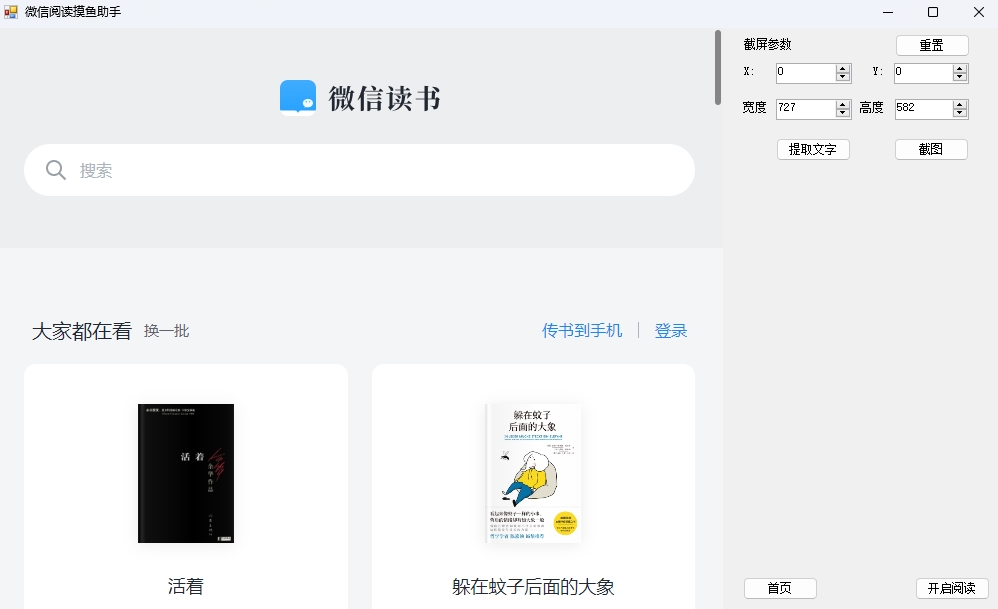
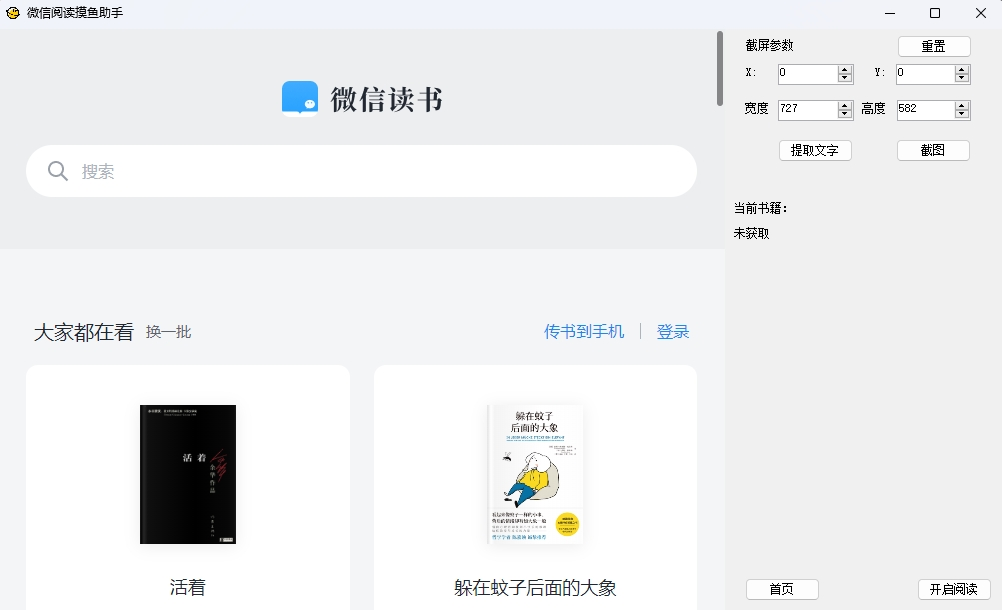
update

diff --git a/MainForm.Designer.cs b/MainForm.Designer.cs
@@ -54,6 +54,7 @@ namespace MiniWeread
             this.checkBox1 = new System.Windows.Forms.CheckBox();
             this.label6 = new System.Windows.Forms.Label();
             this.label7 = new System.Windows.Forms.Label();
+            this.主界面ToolStripMenuItem = new System.Windows.Forms.ToolStripMenuItem();
             ((System.ComponentModel.ISupportInitialize)(this.webView21)).BeginInit();
             ((System.ComponentModel.ISupportInitialize)(this.numericX)).BeginInit();
             ((System.ComponentModel.ISupportInitialize)(this.numericY)).BeginInit();
@@ -162,22 +163,23 @@ namespace MiniWeread
             // contextMenuStrip1
             // 
             this.contextMenuStrip1.Items.AddRange(new System.Windows.Forms.ToolStripItem[] {
+            this.主界面ToolStripMenuItem,
             this.关于ToolStripMenuItem,
             this.退出ToolStripMenuItem});
             this.contextMenuStrip1.Name = "contextMenuStrip1";
-            this.contextMenuStrip1.Size = new System.Drawing.Size(101, 48);
+            this.contextMenuStrip1.Size = new System.Drawing.Size(181, 92);
             // 
             // 关于ToolStripMenuItem
             // 
             this.关于ToolStripMenuItem.Name = "关于ToolStripMenuItem";
-            this.关于ToolStripMenuItem.Size = new System.Drawing.Size(100, 22);
-            this.关于ToolStripMenuItem.Text = "阅读";
+            this.关于ToolStripMenuItem.Size = new System.Drawing.Size(180, 22);
+            this.关于ToolStripMenuItem.Text = "阅读小窗";
             this.关于ToolStripMenuItem.Click += new System.EventHandler(this.readToolStripMenuItem_Click);
             // 
             // 退出ToolStripMenuItem
             // 
             this.退出ToolStripMenuItem.Name = "退出ToolStripMenuItem";
-            this.退出ToolStripMenuItem.Size = new System.Drawing.Size(100, 22);
+            this.退出ToolStripMenuItem.Size = new System.Drawing.Size(180, 22);
             this.退出ToolStripMenuItem.Text = "退出";
             this.退出ToolStripMenuItem.Click += new System.EventHandler(this.exitToolStripMenuItem_Click);
             // 
@@ -306,7 +308,14 @@ namespace MiniWeread
             this.label7.Size = new System.Drawing.Size(41, 12);
             this.label7.TabIndex = 20;
             this.label7.Text = "未获取";
-            this.label7.Click += new System.EventHandler(this.label7_Click);
+            
+            // 
+            // 主界面ToolStripMenuItem
+            // 
+            this.主界面ToolStripMenuItem.Name = "主界面ToolStripMenuItem";
+            this.主界面ToolStripMenuItem.Size = new System.Drawing.Size(180, 22);
+            this.主界面ToolStripMenuItem.Text = "主界面";
+            this.主界面ToolStripMenuItem.Click += new System.EventHandler(this.main_ToolStripMenuItem_Click);
             // 
             // MainForm
             // 
@@ -320,6 +329,7 @@ namespace MiniWeread
             this.Controls.Add(this.panel1);
             this.Controls.Add(this.btn);
             this.Controls.Add(this.webView21);
+            this.Icon = ((System.Drawing.Icon)(resources.GetObject("$this.Icon")));
             this.Name = "MainForm";
             this.Text = "微信阅读摸鱼助手";
             this.FormClosing += new System.Windows.Forms.FormClosingEventHandler(this.MainForm_FormClosing);
@@ -362,6 +372,7 @@ namespace MiniWeread
         private System.Windows.Forms.CheckBox checkBox1;
         private System.Windows.Forms.Label label6;
         private System.Windows.Forms.Label label7;
+        private System.Windows.Forms.ToolStripMenuItem 主界面ToolStripMenuItem;
     }
 }
 

diff --git a/ReadForm.Designer.cs b/ReadForm.Designer.cs
@@ -58,7 +58,7 @@ namespace MiniWeread
             this.FormBorderStyle = System.Windows.Forms.FormBorderStyle.None;
             this.KeyPreview = true;
             this.Name = "ReadForm";
-            this.Text = "Read";
+            this.Text = "阅读";
             this.FormClosing += new System.Windows.Forms.FormClosingEventHandler(this.ReadForm_FormClosing);
             this.Load += new System.EventHandler(this.Read_Load);
             this.ResizeEnd += new System.EventHandler(this.ReadForm_ResizeEnd);

diff --git a/MainForm.cs b/MainForm.cs
@@ -363,16 +363,13 @@ namespace MiniWeread
                  
             }
         }
+ 
+ 
 
-        public void SetBookID()
+        private void main_ToolStripMenuItem_Click(object sender, EventArgs e)
         {
-
-
-        }
-
-        private void label7_Click(object sender, EventArgs e)
-        {
-
+            this.Show();
+            this.Activate();
         }
     }
 }

diff --git a/README.md b/README.md
@@ -1,12 +1,14 @@
 # 微信读书摸鱼助手
-通过OCR读取微信读书的内容，并在本地窗口阅读。
-再用不用担心我上班的时候看书问题了
+通过OCR读取微信读书的内容，并在本地窗口阅读，上班也能轻松看书。
+也可以用来刷阅读时长，再也不用担心微信阅读排名低的问题了。
+
 注意：仅支持64位系统
 
 ## 功能说明
 1. 支持小窗口阅读 
 2. 自定义小窗口样式
-3. 支持保存到本地文本（格式会比较混乱）
+3. 支持保存到本地文本（格式会比较混乱） 保存在程序目录中的saves文件夹
+	如果不是按照顺序阅读，会导致内容重复！！
 
 ## 使用说明
 1. 现在右上角设置截屏参数,确定识别区域
@@ -46,6 +48,6 @@
 当页面内容有误时，请按L键重新读取。
 
 ## 页面截图
-![image](Preview/mian.png)
+![image](Preview/main.png)
 
 
